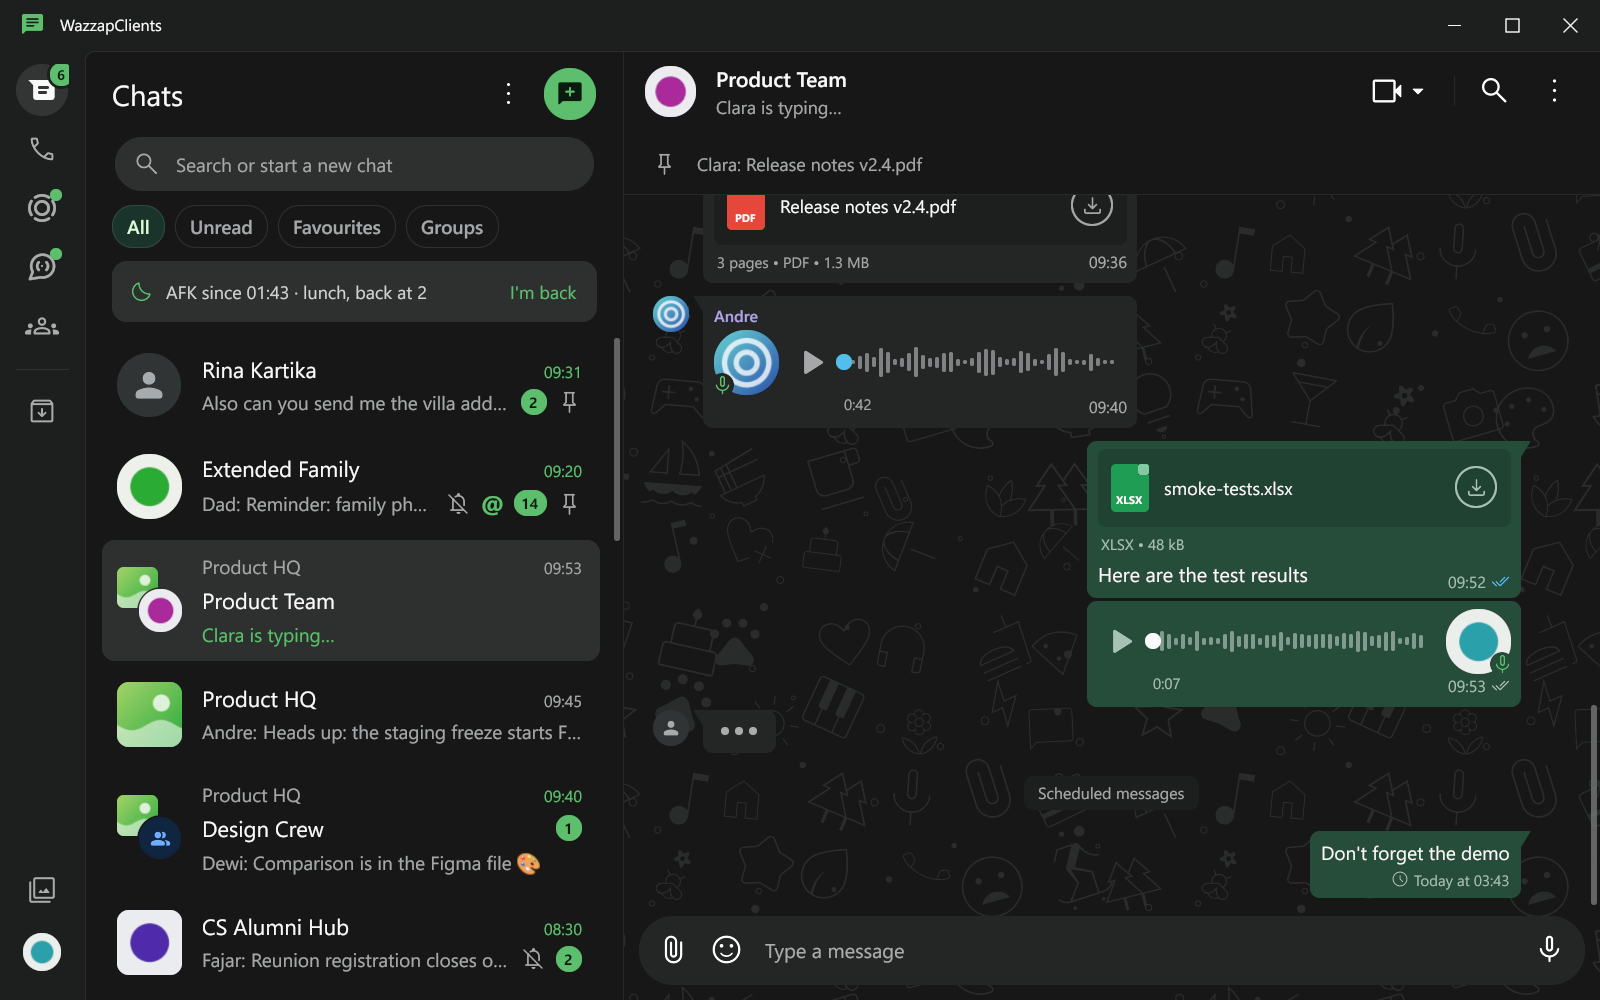
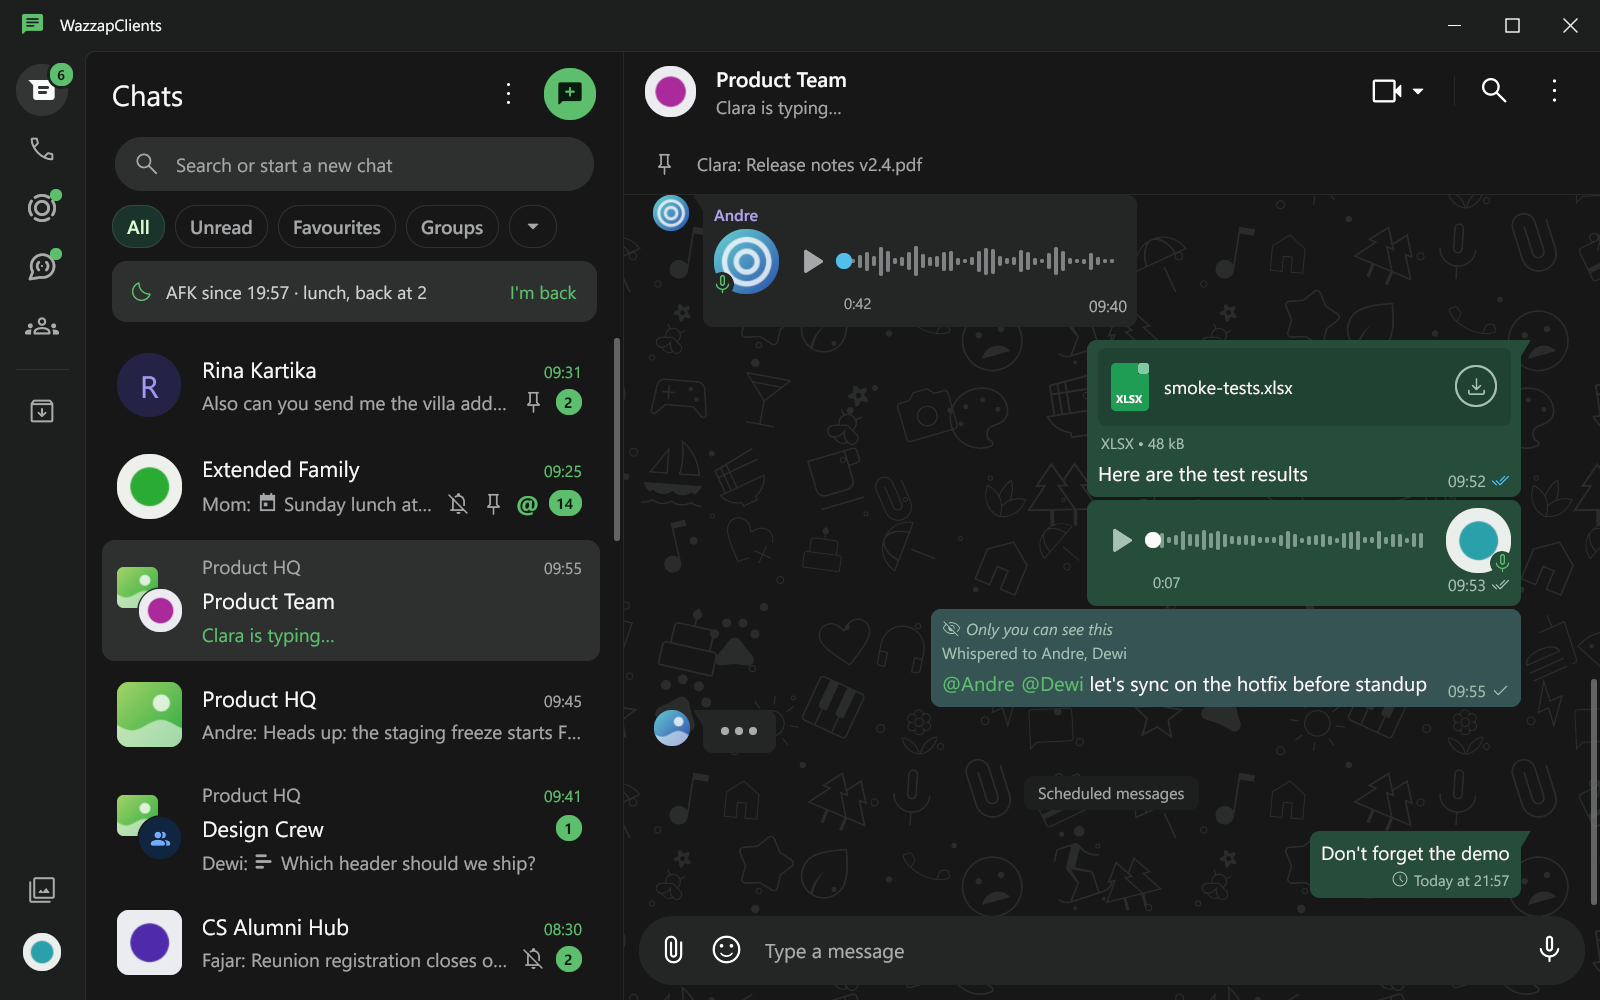
Render the README's screenshots with cmd/screenshot -readme
The README's pictures were rendered by hand, so they fell behind the
app. cmd/screenshot -readme renders all of them from the demo backend
(readmeShots in cmd/screenshot/readme.go lists each with its theme, chat
and scene), plus the hero: Rina's chat light on the left and dark on the
right, joined along a slanted line. The photo editor's shots get a drawn
beach unless $WAZZAP_DEMO_PHOTO names a photo. A new "scheduled" overlay
shows a scheduled message and the AFK bar without their commands' notes.

The demo's Edit history showed no earlier versions: they were stored
under rina-8, but messages added to the chat since moved the edited one,
so the versions now go to whichever of Rina's messages was edited.

All the screenshots are rendered again.

diff --git a/cmd/screenshot/readme.go b/cmd/screenshot/readme.go
@@ -1,0 +1,206 @@
+package main
+
+import (
+	"fmt"
+	"image"
+	"image/color"
+	"image/jpeg"
+	"math"
+	"os"
+	"path/filepath"
+	"strings"
+
+	"github.com/chomosuke9/wazzapclients/internal/mock"
+	"github.com/chomosuke9/wazzapclients/internal/model"
+	"github.com/chomosuke9/wazzapclients/internal/ui"
+)
+
+// demoQR is a made-up pairing payload of realistic length.
+const demoQR = "2@Qm9ndXNQYWlyaW5nUmVmZXJlbmNlRm9yU2NyZWVuc2hvdHNPbmx5X19fX19fX19fX19f,ZmFrZU5vaXNlS2V5X19fX19fX19fX19fX19fX19fXw==,ZmFrZUlkZW50aXR5S2V5X19fX19fX19fX19fX19fXw==,ZmFrZUFkdlNlY3JldF9fX19fX19fX19fX19fX19fXw==,1"
+
+// readmeShot is one of the README's screenshots, rendered from the demo
+// backend with the chat open and then the scene set up.
+type readmeShot struct {
+	name string // the file in docs/screenshots
+	dark bool
+	chat string
+	// scene is a ShowOverlay name, "page:<name>" for ShowPage, "info" for
+	// the open chat's info panel, "login" for the QR code, or "".
+	scene string
+	at    image.Point // where a menu opens, in px at the README's scale
+}
+
+// readmeShots are every picture in README.md but the hero (heroShot). Add
+// a shot here when the README shows a new one.
+var readmeShots = []readmeShot{
+	{name: "login.png", scene: "login"},
+	{name: "group-info.png", dark: true, chat: "work", scene: "info"},
+	{name: "reactions.png", chat: "rina", scene: "msgmenu", at: image.Pt(900, 600)},
+	{name: "search.png", dark: true, chat: "rina", scene: "search"},
+	{name: "emoji.png", chat: "rina", scene: "emoji"},
+	{name: "gallery.png", dark: true, chat: "rina", scene: "gallery"},
+	{name: "poll.png", dark: true, chat: "design", scene: "votes"},
+	{name: "msginfo.png", dark: true, chat: "rina", scene: "msginfo"},
+	{name: "status.png", chat: "rina", scene: "page:status"},
+	{name: "channels.png", dark: true, chat: "rina", scene: "page:channels"},
+	{name: "communities.png", chat: "rina", scene: "page:communities"},
+	{name: "editor.png", dark: true, chat: "rina", scene: "sendedit"},
+	{name: "filter.png", dark: true, chat: "rina", scene: "sendfilter"},
+	{name: "slash.png", dark: true, chat: "work", scene: "slash"},
+	{name: "calc.png", chat: "work", scene: "slashcalc"},
+	{name: "scheduled.png", dark: true, chat: "work", scene: "scheduled"},
+	{name: "edits.png", chat: "rina", scene: "edits"},
+	{name: "privacy.png", dark: true, chat: "rina", scene: "privacy"},
+	{name: "ghost.png", dark: true, chat: "work", scene: "ghost"},
+}
+
+// renderReadme writes the hero and every readmeShot into out, w×h px.
+func renderReadme(out string, w, h int, scale float32) error {
+	// The send view and photo editor show a drawn beach, unless
+	// $WAZZAP_DEMO_PHOTO names a photo of your own.
+	if os.Getenv("WAZZAP_DEMO_PHOTO") == "" {
+		dir, err := os.MkdirTemp("", "wazzap-readme")
+		if err != nil {
+			return err
+		}
+		defer os.RemoveAll(dir)
+		photo := filepath.Join(dir, "beach.jpg")
+		if err := writeBeach(photo); err != nil {
+			return err
+		}
+		os.Setenv("WAZZAP_DEMO_PHOTO", photo)
+		defer os.Unsetenv("WAZZAP_DEMO_PHOTO")
+	}
+	hero, err := heroShot(w, h, scale)
+	if err != nil {
+		return err
+	}
+	if err := writeShot(out, "hero.png", hero); err != nil {
+		return err
+	}
+	for _, s := range readmeShots {
+		u := ui.New(mock.New())
+		if s.scene == "login" {
+			u.SetConn(model.ConnEvent{State: model.StateQR, QR: demoQR})
+		} else {
+			u.Start(func() {})
+		}
+		u.SetDark(s.dark)
+		if s.chat != "" {
+			u.SelectID(s.chat)
+		}
+		switch {
+		case s.scene == "" || s.scene == "login":
+		case s.scene == "info":
+			u.ShowInfo(0, 0)
+		case strings.HasPrefix(s.scene, "page:"):
+			u.ShowPage(strings.TrimPrefix(s.scene, "page:"))
+		default:
+			u.ShowOverlay(s.scene, s.at.X, s.at.Y)
+		}
+		img, err := render(u, w, h, scale)
+		if err != nil {
+			return fmt.Errorf("%s: %w", s.name, err)
+		}
+		if err := writeShot(out, s.name, img); err != nil {
+			return err
+		}
+	}
+	return nil
+}
+
+func writeShot(out, name string, img image.Image) error {
+	path := filepath.Join(out, name)
+	if err := writePNG(path, img); err != nil {
+		return err
+	}
+	fmt.Println("wrote", path)
+	return nil
+}
+
+// heroShot renders the demo's first chat in the light and the dark theme
+// and joins them along a slanted line, light on the left.
+func heroShot(w, h int, scale float32) (*image.RGBA, error) {
+	var themes [2]*image.RGBA
+	for i, dark := range []bool{false, true} {
+		u := ui.New(mock.New())
+		u.Start(func() {})
+		u.SetDark(dark)
+		u.SelectID("rina")
+		img, err := render(u, w, h, scale)
+		if err != nil {
+			return nil, err
+		}
+		themes[i] = img
+	}
+	out, dark := themes[0], themes[1]
+	for y := range h {
+		// The edge runs from 66% of the width at the top to 50% at the bottom.
+		edge := float64(w) * (0.66 - 0.16*float64(y)/float64(h))
+		for x := int(edge); x < w; x++ {
+			a := min(1, float64(x)+1-edge) // the edge's pixel is blended
+			i := out.PixOffset(x, y)
+			for c := range 4 {
+				l, d := float64(out.Pix[i+c]), float64(dark.Pix[i+c])
+				out.Pix[i+c] = uint8(l + (d-l)*a + 0.5)
+			}
+		}
+	}
+	return out, nil
+}
+
+// writeBeach draws a sunset over the sea, seen from the beach, as a JPEG.
+func writeBeach(path string) error {
+	const w, h = 1200, 900
+	img := image.NewRGBA(image.Rect(0, 0, w, h))
+	mix := func(a, b color.RGBA, t float64) color.RGBA {
+		t = max(0, min(1, t))
+		f := func(x, y uint8) uint8 { return uint8(float64(x) + (float64(y)-float64(x))*t + 0.5) }
+		return color.RGBA{f(a.R, b.R), f(a.G, b.G), f(a.B, b.B), 0xff}
+	}
+	sky0, sky1, sky2 := color.RGBA{0x3b, 0x2f, 0x8f, 0xff}, color.RGBA{0xc8, 0x5a, 0x8a, 0xff}, color.RGBA{0xff, 0x9a, 0x3c, 0xff}
+	sea0, sea1 := color.RGBA{0x1a, 0x7c, 0xc4, 0xff}, color.RGBA{0x0a, 0x3a, 0x7a, 0xff}
+	sun, sand0, sand1 := color.RGBA{0xff, 0xe9, 0x8a, 0xff}, color.RGBA{0xf6, 0xd9, 0x9c, 0xff}, color.RGBA{0xe9, 0xbf, 0x78, 0xff}
+	horizon := 0.53 * h
+	sx, sy, sr := 0.66*w, 0.46*h, 0.075*h
+	for y := range h {
+		fy := float64(y)
+		for x := range w {
+			fx := float64(x)
+			var c color.RGBA
+			shore := 0.78*h + 0.05*h*math.Sin(fx/w*math.Pi*1.4+0.6)
+			switch {
+			case fy >= shore:
+				c = mix(sand0, sand1, (fy-shore)/(h-shore))
+			case fy >= horizon:
+				t := (fy - horizon) / (shore - horizon)
+				c = mix(sea0, sea1, t)
+				// The sun's reflection: stripes that narrow toward the shore.
+				half := sr * (1 - 0.6*t)
+				if math.Abs(fx-sx) < half && int(fy-horizon)%14 < 8 {
+					c = mix(c, sun, 0.85-0.4*t)
+				}
+			default:
+				t := fy / horizon
+				if t < 0.6 {
+					c = mix(sky0, sky1, t/0.6)
+				} else {
+					c = mix(sky1, sky2, (t-0.6)/0.4)
+				}
+				d := math.Hypot(fx-sx, fy-sy)
+				if d < sr {
+					c = sun
+				} else if d < 3*sr {
+					c = mix(c, sun, 0.6*math.Pow(1-(d-sr)/(2*sr), 2))
+				}
+			}
+			img.SetRGBA(x, y, c)
+		}
+	}
+	f, err := os.Create(path)
+	if err != nil {
+		return err
+	}
+	defer f.Close()
+	return jpeg.Encode(f, img, &jpeg.Options{Quality: 90})
+}

diff --git a/internal/ui/app.go b/internal/ui/app.go
@@ -1419,8 +1419,9 @@ func (u *UI) applyReceipt(e model.ReceiptEvent) {
 // open chat) or "newgroup"; the ⋮ menu "menu", its account switcher "accounts", or the
 // switcher on the login screen "loginaccounts", its Starred messages "starredall"; slash commands in a group: the
 // picker "slash", /kick's options "slashkick", /calc's answer as you type "slashcalc", a mention
-// in /schedule's message "slashschedule", the notes of commands run "slashrun", or ghost mode
-// turned on with /ghost "ghost".
+// in /schedule's message "slashschedule", the notes of commands run "slashrun", a scheduled
+// message and the AFK bar without their notes "scheduled", or ghost mode turned on with
+// /ghost "ghost".
 // "graywarning" opens the acknowledgment for Keep deleted messages.
 // Menus open at (x, y) px in content coordinates.
 func (u *UI) ShowOverlay(name string, x, y int) {
@@ -1728,7 +1729,7 @@ func (u *UI) ShowOverlay(name string, x, y int) {
 			u.attach.anim.snap(true)
 			u.conv.composer.SetText("Sunday at the beach")
 		}
-	case "slash", "slashkick", "slashcalc", "slashschedule", "slashrun", "ghost":
+	case "slash", "slashkick", "slashcalc", "slashschedule", "slashrun", "scheduled", "ghost":
 		// Slash commands (open a group with -ochat): the picker of
 		// commands, /kick's options, /calc's answer, a member picked in
 		// /schedule's message, the notes of commands run, or ghost mode
@@ -1768,6 +1769,16 @@ func (u *UI) ShowOverlay(name string, x, y int) {
 				u.sendComposer()
 			}
 			u.applyEvents()
+		case "scheduled":
+			for _, s := range []string{"/schedule 2h Don't forget the demo", "/afk lunch, back at 2"} {
+				u.applyEvents()
+				set(s)
+				u.sendComposer()
+			}
+			u.applyEvents()
+			// The scheduled bubble and the AFK bar say what the notes would.
+			delete(u.slash.notes, u.selected.ID)
+			u.msgsVer++
 		case "ghost":
 			u.grayCmds["ghost"] = true // a gray command, off by default
 			set("/ghost ")

diff --git a/cmd/screenshot/main.go b/cmd/screenshot/main.go
@@ -52,6 +52,7 @@ func main() {
 	overlayChat := flag.String("ochat", "rina", "with -overlay, the demo chat to open")
 	filmName := flag.String("film", "", "render an animation's frames to <out>/film-<name>.png: an -overlay name, viewer-click (thumbnail at -at), info, message, reorder, hover, scroll (-at over the chat), typing, typists (-ochat work), ghost, privacy, privacyhover or vote (-ochat design)")
 	step := flag.Duration("step", 30*time.Millisecond, "with -film, time between frames")
+	readme := flag.Bool("readme", false, "render every screenshot in README.md into <out> (use -out docs/screenshots -w 1280 -h 800 -scale 1.25)")
 	flag.Parse()
 	if *memprofile != "" {
 		defer func() {
@@ -79,6 +80,12 @@ func main() {
 
 	if err := os.MkdirAll(*out, 0o755); err != nil {
 		log.Fatal(err)
+	}
+	if *readme {
+		if err := renderReadme(*out, int(float64(*width)**scale), int(float64(*height)**scale), float32(*scale)); err != nil {
+			log.Fatal(err)
+		}
+		return
 	}
 	if *filmName != "" {
 		var x, y int
@@ -144,9 +151,7 @@ func main() {
 		}
 		u := ui.New(b)
 		if s.login {
-			// A made-up pairing payload of realistic length.
-			u.SetConn(model.ConnEvent{State: model.StateQR,
-				QR: "2@Qm9ndXNQYWlyaW5nUmVmZXJlbmNlRm9yU2NyZWVuc2hvdHNPbmx5X19fX19fX19fX19f,ZmFrZU5vaXNlS2V5X19fX19fX19fX19fX19fX19fXw==,ZmFrZUlkZW50aXR5S2V5X19fX19fX19fX19fX19fXw==,ZmFrZUFkdlNlY3JldF9fX19fX19fX19fX19fX19fXw==,1"})
+			u.SetConn(model.ConnEvent{State: model.StateQR, QR: demoQR})
 		} else {
 			u.Start(func() {})
 		}

diff --git a/internal/mock/mock.go b/internal/mock/mock.go
@@ -87,11 +87,16 @@ func New() *Backend {
 	b.demoVotes()
 	b.demoReactions()
 	b.seedReactors()
-	sent := b.find(&model.Message{ChatID: "rina", ID: "rina-8"}).Time
-	b.versions = map[string][]model.Version{"rina/rina-8": {
-		{Text: "Let's go there on Saturday", Time: sent},
-		{Text: "Let's go there on Saturday morning", Time: sent.Add(time.Minute)},
-	}}
+	// Rina's edited message says what it said before each edit.
+	for _, m := range b.msgs["rina"] {
+		if !m.Edited.IsZero() {
+			b.versions = map[string][]model.Version{m.ChatID + "/" + m.ID: {
+				{Text: "Let's go there on Saturday", Time: m.Time},
+				{Text: "Let's go there on Saturday morning", Time: m.Time.Add(time.Minute)},
+			}}
+			break
+		}
+	}
 	b.lists = []*model.ChatList{{ID: "l1", Name: "Family", Chats: []string{"family", "mom"}}, {ID: "l2", Name: "Work"}}
 	return b
 }

diff --git a/AGENTS.md b/AGENTS.md
@@ -525,6 +525,8 @@ go run ./cmd/wazzap            # run the app (links to WhatsApp via QR code)
 go run ./cmd/wazzap -demo      # run with fake chats, no network
 go run ./cmd/wazzap -background  # start in the tray, without a window
 go run ./cmd/screenshot        # render preview PNGs into ./docs/
+# Every screenshot in README.md (the list is readmeShots in cmd/screenshot/readme.go):
+go run ./cmd/screenshot -readme -w 1280 -h 800 -scale 1.25 -out docs/screenshots
 go run ./cmd/memprobe -demo    # memory benchmark (Windows); -data <copy of the data dir>
 # Scroll the chat list for 1200 frames and print frame times, CPU, GCs, the frame
 # rate and late frames; -ballast adds live heap like a long session's, -cpuprofile
